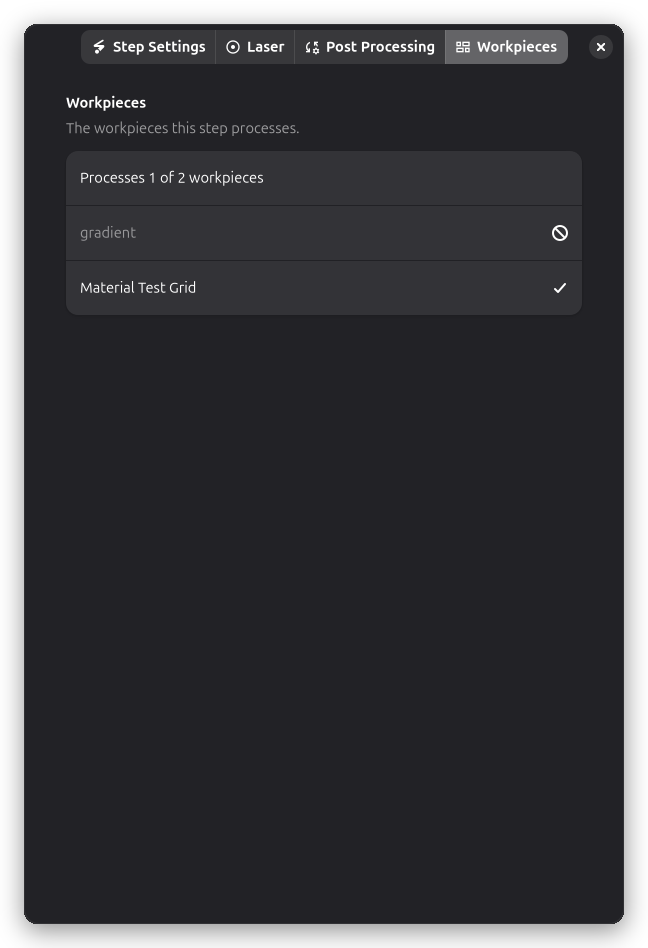
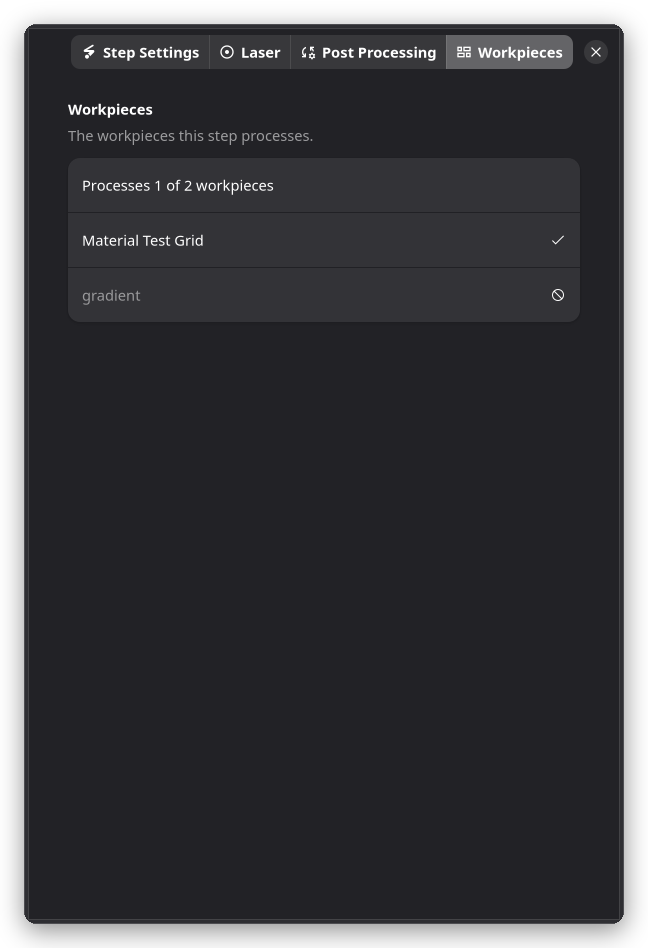
docs: screenshots of the calibration tests with their Test Settings
Regenerate material-test and the Material Test Grid's Workpieces tab,
and add interval-test and focus-test to the Interval and Focus Tests
page in every language.

Refs #519

diff --git a/website/i18n/hi/docusaurus-plugin-content-docs/current/features/operations/interval-and-focus-tests.md b/website/i18n/hi/docusaurus-plugin-content-docs/current/features/operations/interval-and-focus-tests.md
@@ -22,6 +22,8 @@ description:
 से फैला होता है, जबकि पावर और गति सभी के लिए समान रहती है। हर वर्ग के नीचे के लेबल मिलीमीटर में
 अंतराल और उससे मेल खाती रेखा घनत्व को लाइन प्रति इंच (LPI) में दिखाते हैं।
 
+![इंटरवल टेस्ट](/screenshots/interval-test.webp)
+
 वह वर्ग चुनें जो बिना दिखने वाली रेखाओं और बिना ज़्यादा गहरे जलाव के समान रूप से भरा हो, और उस
 सामग्री पर उकेरने के लिए उसका अंतराल इस्तेमाल करें। लेबल वर्गों से पहले कम पावर वाले अलग ऑपरेशन से
 काटे जाते हैं।
@@ -30,6 +32,8 @@ description:
 
 **टूल्स → फ़ोकस टेस्ट बनाएँ** वह ऊँचाई खोजता है जिस पर बीम सबसे तीक्ष्ण होती है। धनात्मक ऑफ़सेट का
 अर्थ है हेड और सामग्री के बीच अधिक दूरी। सबसे पतली रेखा सबसे अच्छा फ़ोकस दिखाती है।
+
+![फ़ोकस टेस्ट](/screenshots/focus-test.webp)
 
 | विधि                             | ऊँचाई कैसे बदलती है                                                                        |
 | -------------------------------- | ------------------------------------------------------------------------------------------ |

diff --git a/website/i18n/uk/docusaurus-plugin-content-docs/current/features/operations/interval-and-focus-tests.md b/website/i18n/uk/docusaurus-plugin-content-docs/current/features/operations/interval-and-focus-tests.md
@@ -23,6 +23,8 @@ Settings** на панелі властивостей праворуч. Кожн
 кожним квадратом показують інтервал у міліметрах і відповідну щільність ліній у лініях на дюйм
 (LPI).
 
+![Тест інтервалу](/screenshots/interval-test.webp)
+
 Виберіть квадрат, заповнений рівномірно, без видимих ліній і без надто глибокого пропалу, і
 використовуйте його інтервал для гравіювання на цьому матеріалі. Підписи вирізаються перед
 квадратами окремою операцією з низькою потужністю.
@@ -31,6 +33,8 @@ Settings** на панелі властивостей праворуч. Кожн
 
 **Інструменти → Створити тест фокусування** знаходить висоту, на якій промінь найрізкіший. Додатне
 зміщення означає більшу відстань між голівкою і матеріалом. Найтонша лінія позначає найкращий фокус.
+
+![Тест фокусування](/screenshots/focus-test.webp)
 
 | Метод                          | Як змінюється висота                                                                       |
 | ------------------------------ | ------------------------------------------------------------------------------------------ |

diff --git a/website/i18n/fr/docusaurus-plugin-content-docs/current/features/operations/interval-and-focus-tests.md b/website/i18n/fr/docusaurus-plugin-content-docs/current/features/operations/interval-and-focus-tests.md
@@ -24,6 +24,8 @@ plus grand intervalle saisi, tandis que la puissance et la vitesse restent les m
 étiquettes sous chaque carré indiquent l'intervalle en millimètres et la densité de lignes
 correspondante en lignes par pouce (LPI).
 
+![Test d'intervalle](/screenshots/interval-test.webp)
+
 Choisissez le carré rempli de façon homogène, sans lignes visibles et sans brûlure trop profonde, et
 utilisez son intervalle pour les gravures sur ce matériau. Les étiquettes sont découpées avant les
 carrés avec une opération séparée à faible puissance.
@@ -33,6 +35,8 @@ carrés avec une opération séparée à faible puissance.
 **Outils → Créer un test de mise au point** trouve la hauteur à laquelle le faisceau est le plus
 net. Un décalage positif signifie plus de distance entre la tête et le matériau. La ligne la plus
 fine indique la meilleure mise au point.
+
+![Test de mise au point](/screenshots/focus-test.webp)
 
 | Méthode                             | Comment la hauteur change                                                                       |
 | ----------------------------------- | ----------------------------------------------------------------------------------------------- |

diff --git a/website/i18n/es/docusaurus-plugin-content-docs/current/features/operations/interval-and-focus-tests.md b/website/i18n/es/docusaurus-plugin-content-docs/current/features/operations/interval-and-focus-tests.md
@@ -23,6 +23,8 @@ entre el intervalo menor y el mayor que indiques, mientras la potencia y la velo
 para todos. Las etiquetas bajo cada cuadrado muestran el intervalo en milímetros y la densidad de
 líneas correspondiente en líneas por pulgada (LPI).
 
+![Prueba de intervalo](/screenshots/interval-test.webp)
+
 Elige el cuadrado que esté relleno de forma uniforme, sin líneas visibles y sin quemarse demasiado,
 y usa su intervalo para grabar en ese material. Las etiquetas se cortan antes que los cuadrados con
 una operación propia de baja potencia.
@@ -32,6 +34,8 @@ una operación propia de baja potencia.
 **Herramientas → Crear prueba de enfoque** encuentra la altura a la que el haz es más nítido. Un
 desplazamiento positivo significa más distancia entre el cabezal y el material. La línea más fina
 marca el mejor enfoque.
+
+![Prueba de enfoque](/screenshots/focus-test.webp)
 
 | Método                          | Cómo cambia la altura                                                                        |
 | ------------------------------- | -------------------------------------------------------------------------------------------- |

diff --git a/website/i18n/pt-BR/docusaurus-plugin-content-docs/current/features/operations/interval-and-focus-tests.md b/website/i18n/pt-BR/docusaurus-plugin-content-docs/current/features/operations/interval-and-focus-tests.md
@@ -23,6 +23,8 @@ menor ao maior intervalo informado, enquanto a potência e a velocidade são as 
 rótulos abaixo de cada quadrado mostram o intervalo em milímetros e a densidade de linhas
 correspondente em linhas por polegada (LPI).
 
+![Teste de intervalo](/screenshots/interval-test.webp)
+
 Escolha o quadrado preenchido de forma uniforme, sem linhas visíveis e sem queimar demais, e use o
 seu intervalo para gravações nesse material. Os rótulos são cortados antes dos quadrados com uma
 operação separada de baixa potência.
@@ -32,6 +34,8 @@ operação separada de baixa potência.
 **Ferramentas → Criar teste de foco** encontra a altura em que o feixe é mais nítido. Um
 deslocamento positivo significa mais distância entre a cabeça e o material. A linha mais fina marca
 o melhor foco.
+
+![Teste de foco](/screenshots/focus-test.webp)
 
 | Método                          | Como a altura muda                                                                            |
 | ------------------------------- | --------------------------------------------------------------------------------------------- |

diff --git a/website/docs/features/operations/interval-and-focus-tests.md b/website/docs/features/operations/interval-and-focus-tests.md
@@ -21,6 +21,8 @@ hand, but a later change in the Test Settings rebuilds those operations.
 interval you enter, while power and speed stay the same for all of them. The labels under each
 square show the interval in millimeters and the matching line density in lines per inch (LPI).
 
+![Interval Test](/screenshots/interval-test.webp)
+
 Pick the square that is filled evenly without visible lines and without burning too deep, and use
 its interval for engravings on that material. The labels are cut with a separate low-power operation
 before the squares.
@@ -29,6 +31,8 @@ before the squares.
 
 **Tools → Create Focus Test** finds the height at which the beam is sharpest. A positive offset
 means more distance between the head and the material. The thinnest line marks the best focus.
+
+![Focus Test](/screenshots/focus-test.webp)
 
 | Method                           | How the height changes                                                                            |
 | -------------------------------- | ------------------------------------------------------------------------------------------------- |

diff --git a/website/i18n/zh-CN/docusaurus-plugin-content-docs/current/features/operations/interval-and-focus-tests.md b/website/i18n/zh-CN/docusaurus-plugin-content-docs/current/features/operations/interval-and-focus-tests.md
@@ -10,11 +10,15 @@ description: "使用线间距测试和焦距测试，找到最适合雕刻的线
 
 **工具 → 创建线间距测试**会雕刻一排填充方块。每个方块都有自己的**雕刻**操作和自己的线间距，从你输入的最小值到最大值均匀分布，而所有方块的功率和速度都相同。每个方块下方的标签显示以毫米为单位的线间距，以及对应的每英寸线数（LPI）。
 
+![线间距测试](/screenshots/interval-test.webp)
+
 选择填充均匀、看不到线条且没有烧得过深的方块，在该材料上雕刻时使用它的线间距。标签会在方块之前用单独的低功率操作切割。
 
 ## 焦距测试
 
 **工具 → 创建焦距测试**用于找到光束最锐利的高度。正偏移表示激光头与材料之间的距离更大。最细的线即为最佳焦点。
+
+![焦距测试](/screenshots/focus-test.webp)
 
 | 方法                   | 高度如何变化                                           |
 | ---------------------- | ------------------------------------------------------ |
